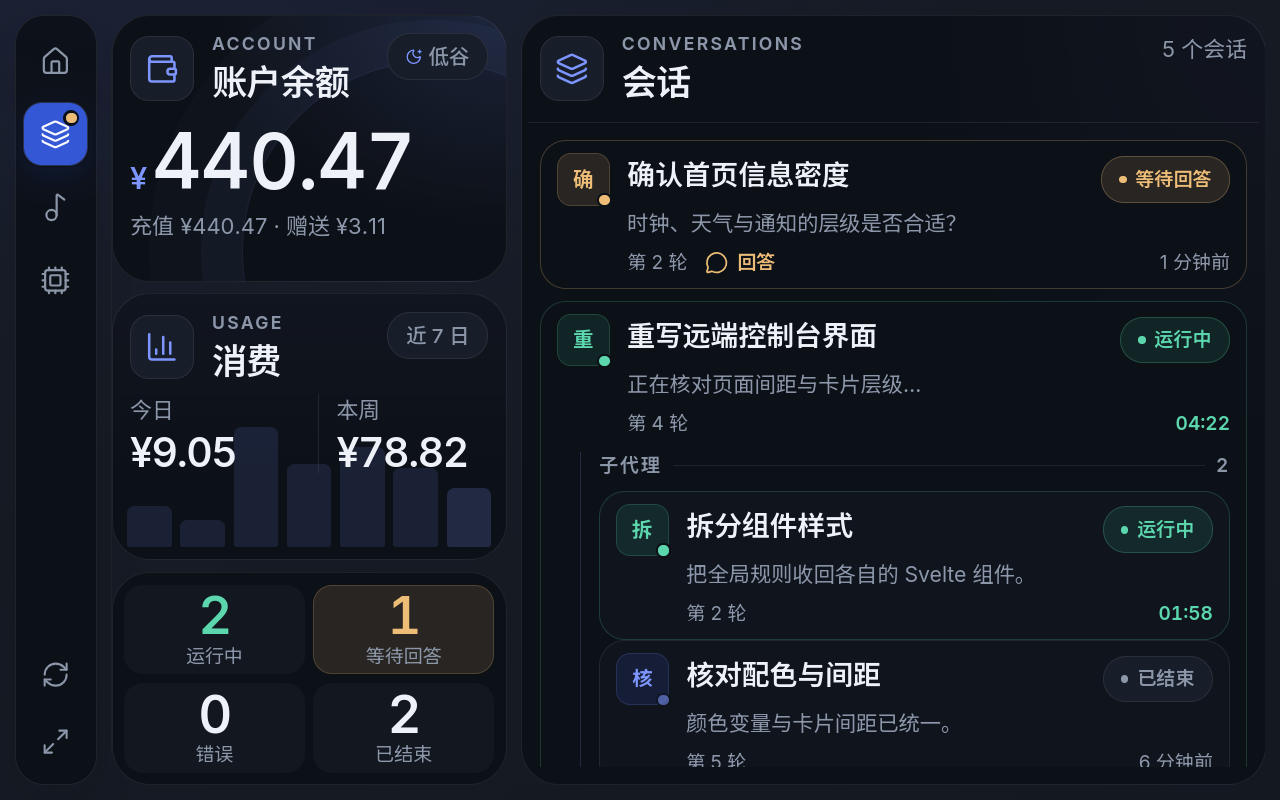
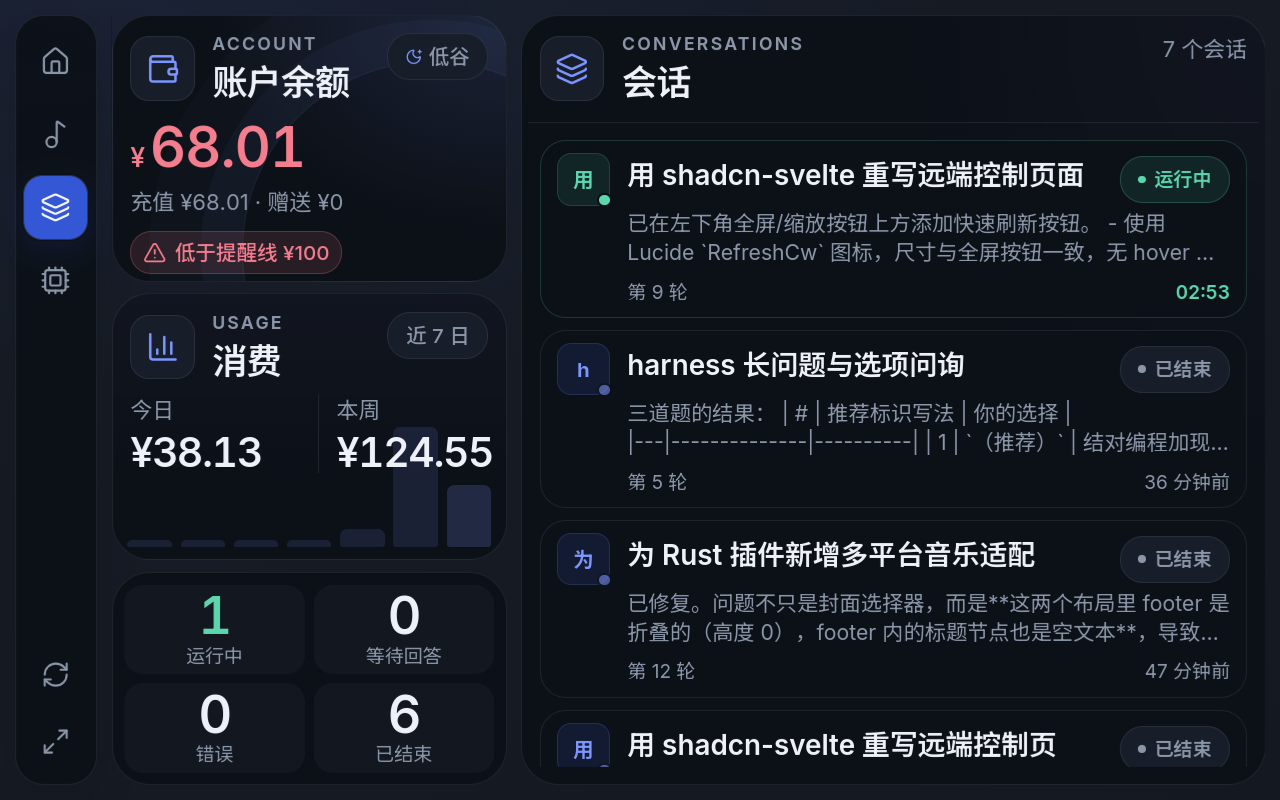
Fix: low balance warning overflow

diff --git a/src/svelte/lib/components/BalanceCard.svelte b/src/svelte/lib/components/BalanceCard.svelte
@@ -129,6 +129,16 @@
     color: var(--danger);
   }
 
+  /* Low state adds the alert capsule; shrink the amount so the whole card
+     still fits in the short landscape layout instead of clipping the pill. */
+  .balance-line.is-low .balance-value {
+    font-size: clamp(36px, 4.6vw, 48px);
+  }
+
+  .balance-line.is-low .balance-symbol {
+    font-size: 20px;
+  }
+
   @media (max-height: 760px) {
     :global(.balance-card) {
       padding: 12px;
@@ -140,6 +150,14 @@
 
     .balance-symbol {
       font-size: 21px;
+    }
+
+    .balance-line.is-low .balance-value {
+      font-size: clamp(34px, 4.4vw, 40px);
+    }
+
+    .balance-line.is-low .balance-symbol {
+      font-size: 18px;
     }
   }
 

diff --git a/scripts/mock-preview.py b/scripts/mock-preview.py
@@ -11,6 +11,7 @@ Usage (run after `pnpm build:web`):
     python3 scripts/mock-preview.py --web web --port 4173
     # http://127.0.0.1:4173/?page=music
     # http://127.0.0.1:4173/?page=home&sheet=1   (opens the question dialog)
+    # http://127.0.0.1:4173/?page=sessions&low=1 (low-balance warning state)
 
 The mock cover is a generated SVG; no image library or network access needed.
 """
@@ -317,7 +318,22 @@ def mock_socket_script(messages: list[dict]) -> str:
 (function () {
   const params = new URLSearchParams(location.search);
   const wantSheet = params.get('sheet') === '1';
+  const wantLowBalance = params.get('low') === '1';
   const MESSAGES = __MESSAGES__;
+  if (wantLowBalance) {
+    for (const message of MESSAGES) {
+      if (message.type !== 'overview' || !message.data?.account) continue;
+      message.data.account.lowBalance = true;
+      message.data.account.lowThreshold = 100;
+      message.data.account.balance = {
+        ...message.data.account.balance,
+        balance: 68.01,
+        paid: 68.01,
+        bonus: 0,
+        state: 'ready',
+      };
+    }
+  }
   class MockSocket {
     static CONNECTING = 0;
     static OPEN = 1;
